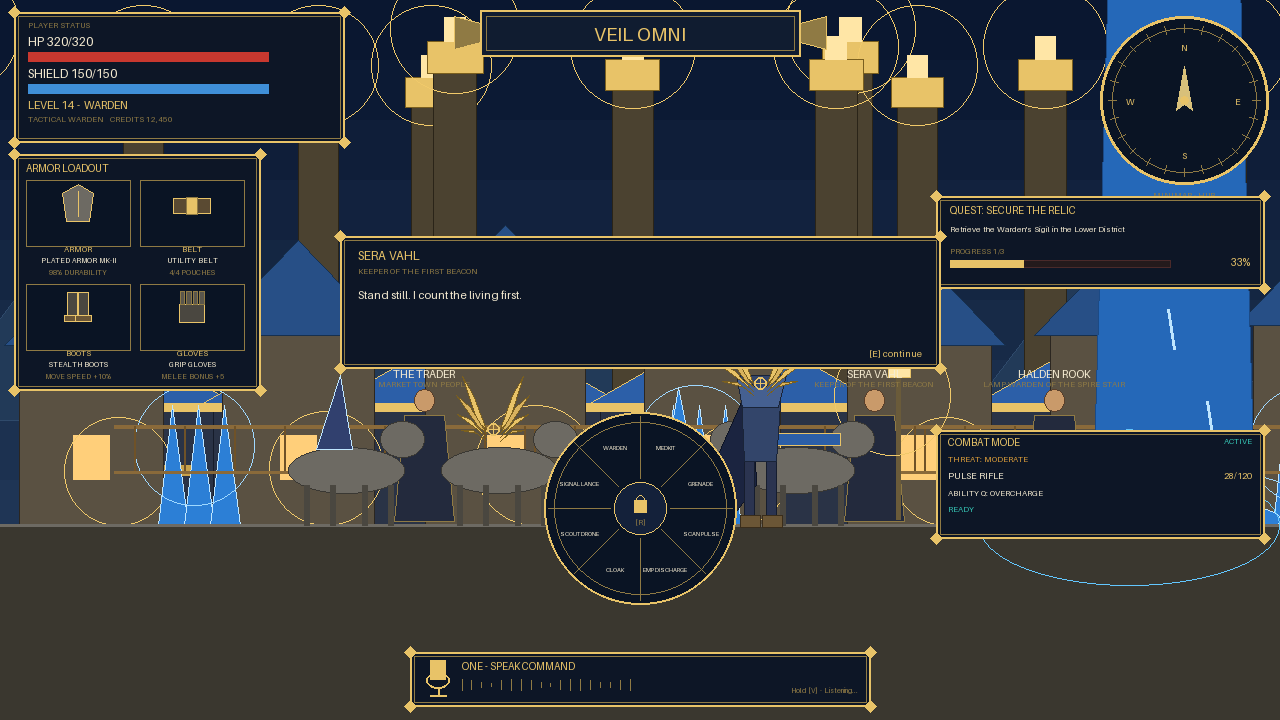
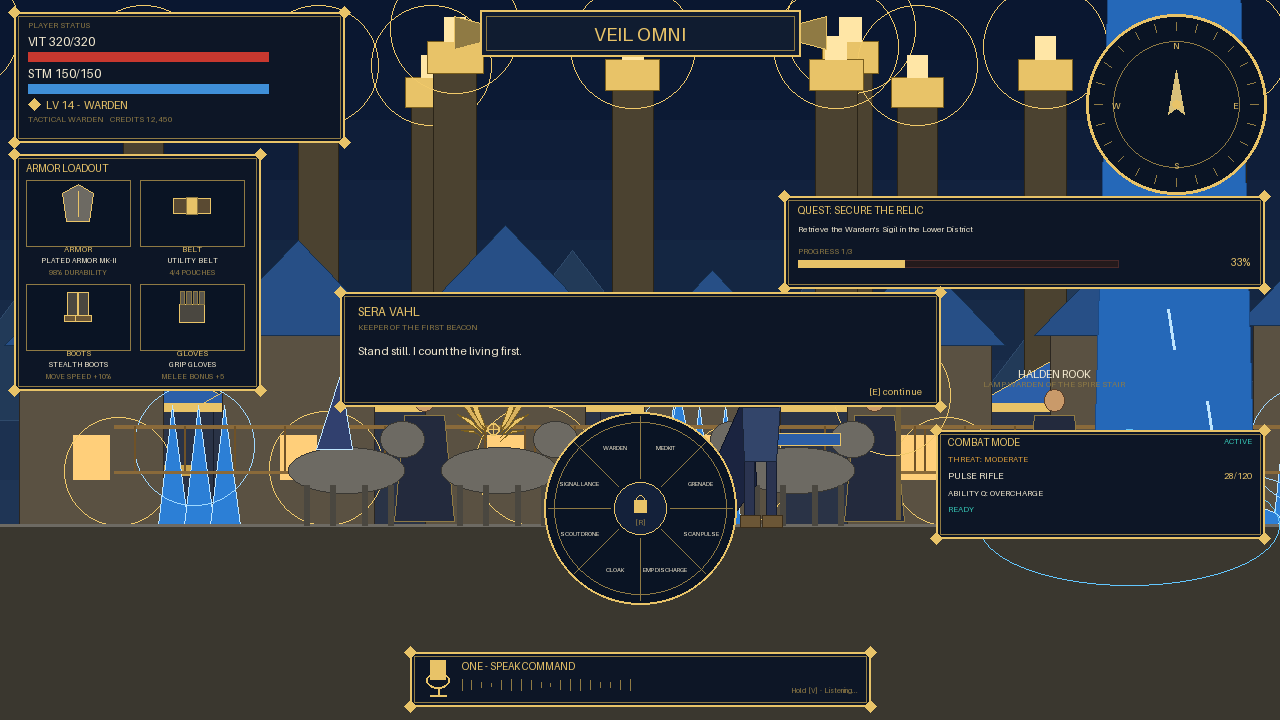
HUD reads VIT, STM and a diamond LV; minimap 180, quest panel 480
Tyree's numbers, not approximations: the status plate labels vitals VIT and STM,
the level sits on a gold diamond, the compass is 180 across with its 70% ring,
and the quest plate is 480 wide so the objective fits on one line. The dialogue
plate moved down to clear the taller panels.

diff --git a/veil_ui.py b/veil_ui.py
@@ -160,11 +160,12 @@ def draw_hud(b, st, dlg=None, zone_name="HUB", runner=None):
     # 1. player status, top-left, 330x130
     frame(b, 14, 12, 330, 130)
     b.text(28, 20, "PLAYER STATUS", fill=GOLD_DEEP, size=8, bold=True)
-    b.text(28, 34, "HP %d/%d" % (st.hp, st.hp_max), fill=PALE, size=12, bold=True)
+    b.text(28, 34, "VIT %d/%d" % (st.hp, st.hp_max), fill=PALE, size=12, bold=True)
     bar(b, 28, 52, 240, 9, st.hp / st.hp_max, RED)
-    b.text(28, 66, "SHIELD %d/%d" % (st.shield, st.shield_max), fill=PALE, size=12, bold=True)
+    b.text(28, 66, "STM %d/%d" % (st.shield, st.shield_max), fill=PALE, size=12, bold=True)
     bar(b, 28, 84, 240, 9, st.shield / st.shield_max, BLUE, back="#16202e")
-    b.text(28, 98, "LEVEL %d  -  %s" % (st.level, st.cls), fill=GOLD, size=11, bold=True)
+    diamond(b, 34, 104, 6, GOLD)
+    b.text(46, 98, "LV %d  -  %s" % (st.level, st.cls), fill=GOLD, size=11, bold=True)
     b.text(28, 114, "TACTICAL %s   CREDITS %s" % (st.cls, format(st.credits, ",")),
            fill=GOLD_DEEP, size=8)
 
@@ -172,9 +173,9 @@ def draw_hud(b, st, dlg=None, zone_name="HUB", runner=None):
     ribbon(b, W / 2 - 160, 10, 320, 46, "VEIL OMNI", 19)
 
     # 3. compass minimap, top-right, 168 across
-    cx, cy, r = W - 96, 100, 84
+    cx, cy, r = W - 104, 104, 90
     b.oval(cx - r, cy - r, cx + r, cy + r, fill="#0a1424", outline=GOLD, width=3)
-    b.oval(cx - r + 12, cy - r + 12, cx + r - 12, cy + r - 12, outline=GOLD_DEEP)
+    b.oval(cx - r * 0.7, cy - r * 0.7, cx + r * 0.7, cy + r * 0.7, outline=GOLD_DEEP)
     for i in range(24):
         a = math.radians(i * 15)
         b.line([(cx + math.cos(a) * (r - 8), cy + math.sin(a) * (r - 8)),
@@ -188,13 +189,13 @@ def draw_hud(b, st, dlg=None, zone_name="HUB", runner=None):
     b.text(cx, cy + r + 6, "MINIMAP - %s" % zone_name, fill=GOLD_DEEP, size=8, anchor="center")
 
     # 4. quest panel, right, under the minimap
-    qx, qy, qw, qh = W - 344, 196, 328, 92
+    qx, qy, qw, qh = W - 496, 196, 480, 92
     frame(b, qx, qy, qw, qh)
     b.text(qx + 14, qy + 8, "QUEST: %s" % st.quest, fill=GOLD, size=10, bold=True)
     b.text(qx + 14, qy + 28, st.objective, fill=PALE, size=8)
     done, total = st.progress
     b.text(qx + 14, qy + 50, "PROGRESS %d/%d" % (done, total), fill=GOLD_DEEP, size=8, bold=True)
-    bar(b, qx + 14, qy + 64, 220, 7, done / max(1, total), GOLD)
+    bar(b, qx + 14, qy + 64, 320, 7, done / max(1, total), GOLD)
     b.text(qx + qw - 14, qy + 60, "%d%%" % int(100 * done / max(1, total)),
            fill=GOLD, size=10, anchor="e")
 
@@ -251,8 +252,8 @@ def draw_hud(b, st, dlg=None, zone_name="HUB", runner=None):
 
     # 9. dialogue, centred and above the wheel when a line is open
     if dlg is not None and dlg.active():
-        pw, ph = 600, 132
-        px, py = (W - pw) / 2, 236
+        pw, ph = 600, 114
+        px, py = (W - pw) / 2, 292
         frame(b, px, py, pw, ph)
         b.text(px + 18, py + 12, dlg.npc.name, fill=GOLD, size=12, bold=True)
         b.text(px + 18, py + 30, dlg.npc.title, fill=GOLD_DEEP, size=8)
